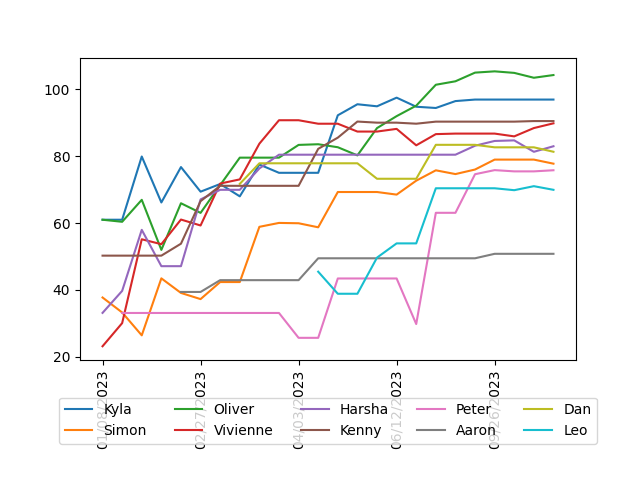
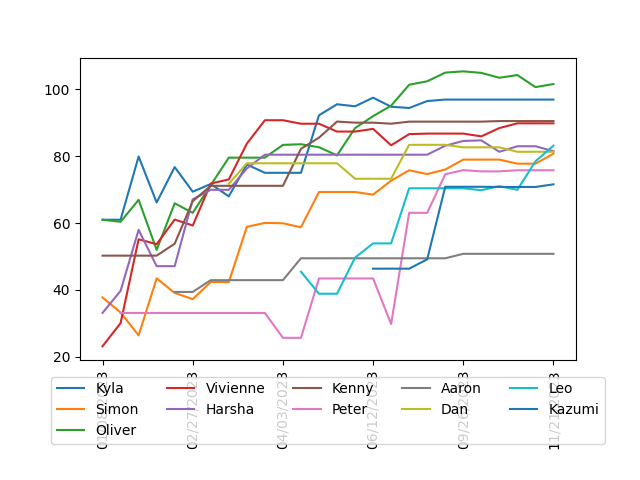
update rankings

diff --git a/README.md b/README.md
@@ -5,23 +5,23 @@
 
 | Player | ELO | Wins | Losses | Win % | Best Game |
 | --- | --- | --- | --- | --- | --- |
-| Oliver | 104.21 | 47 | 37 | 56% | Secret Hitler |
+| Oliver | 101.52 | 50 | 40 | 56% | Secret Hitler |
 | Kyla | 96.88 | 37 | 32 | 54% | Cash n Guns |
 | Kenny | 90.46 | 22 | 22 | 50% | Cash n Guns |
-| Vivienne | 89.79 | 34 | 24 | 59% | Secret Hitler |
+| Vivienne | 89.78 | 35 | 25 | 58% | Secret Hitler |
 | Nikiny | 88.92 | 6 | 12 | 33% | Cash n Guns |
-| Harsha | 82.94 | 24 | 25 | 49% | Secret Hitler |
+| Leo | 83.12 | 17 | 20 | 46% | Avalon |
+| Harsha | 81.47 | 24 | 26 | 48% | Secret Hitler |
 | Dan | 81.29 | 8 | 15 | 35% | Masquerade |
+| Simon | 80.73 | 29 | 34 | 46% | Avalon |
 | Annika | 78.73 | 3 | 1 | 75% | Avalon |
-| Simon | 77.73 | 26 | 33 | 44% | Avalon |
-| Sincere | 77.68 | 7 | 7 | 50% | Avalon |
 | Jelita | 77.39 | 6 | 2 | 75% | Secret Hitler |
+| Sincere | 77.13 | 8 | 10 | 44% | Avalon |
 | Peter | 75.77 | 11 | 20 | 35% | Love Letter |
-| Kazumi | 70.78 | 4 | 14 | 22% | Love Letter |
-| Leo | 69.92 | 11 | 20 | 35% | Masquerade |
+| Siri | 71.98 | 1 | 8 | 11% | Love Letter |
+| Kazumi | 71.56 | 6 | 16 | 27% | Love Letter |
 | Karen | 69.00 | 2 | 1 | 67% | Codenames |
 | Justin | 67.16 | 1 | 4 | 20% | Love Letter |
-| Siri | 64.90 | 1 | 7 | 12% | Love Letter |
 | Rob | 63.15 | 3 | 1 | 75% | Codenames |
 | Queenie | 57.72 | 7 | 11 | 39% | Secret Hitler |
 | Calvin | 55.59 | 7 | 10 | 41% | Secret Hitler |
@@ -39,7 +39,9 @@
 | Eunice | 41.96 | 1 | 1 | 50% | Wavelength |
 | Yoyo | 41.68 | 1 | 1 | 50% | Secret Hitler |
 | Ellabelle | 38.67 | 1 | 7 | 12% | Avalon |
+| Angela | 36.90 | 1 | 4 | 20% | Incan Gold |
 | Jan | 34.21 | 2 | 4 | 33% | Codenames |
+| Julie | 28.24 | 1 | 4 | 20% | Avalon |
 | Agnes | 27.82 | 1 | 4 | 20% | Avalon |
 | Lisa | 27.58 | 0 | 2 | 0% | Secret Hitler |
 | Katrina | 25.63 | 2 | 3 | 40% | Codenames |
@@ -49,6 +51,7 @@
 | Sandy | 21.08 | 0 | 2 | 0% | Codenames |
 | Vivian | 18.94 | 0 | 2 | 0% | Secret Hitler |
 | Louise | 15.50 | 0 | 5 | 0% | Incan Gold |
+| Bryan | 15.30 | 0 | 4 | 0% | Incan Gold |
 | Shirley | 8.62 | 0 | 4 | 0% | Wavelength |
 
 ### Rankings over Time
@@ -104,29 +107,30 @@
 
 | Player | ELO | Wins | Losses | Win % |
 | --- | --- | --- | --- | --- |
+| Vivienne | 77.34  | 9 | 4 | 69% |
 | Kyla | 74.24  | 10 | 5 | 67% |
-| Vivienne | 73.18  | 8 | 4 | 67% |
-| Oliver | 58.80  | 9 | 7 | 56% |
+| Oliver | 67.40  | 11 | 7 | 61% |
 | Harsha | 54.56  | 6 | 5 | 55% |
+| Leo | 53.11  | 5 | 3 | 62% |
 | Kenny | 51.11  | 5 | 4 | 56% |
 | Diana | 50.80  | 1 | 0 | 100% |
 | Karen | 50.80  | 1 | 0 | 100% |
 | Fred | 48.43  | 1 | 0 | 100% |
 | Rob | 48.41  | 1 | 0 | 100% |
 | Frances | 48.41  | 1 | 0 | 100% |
+| Kazumi | 48.13  | 3 | 2 | 60% |
 | Annika | 46.91  | 1 | 0 | 100% |
 | Katrina | 46.85  | 2 | 0 | 100% |
 | Dari | 46.30  | 1 | 0 | 100% |
-| Kazumi | 42.28  | 2 | 2 | 50% |
-| Leo | 39.64  | 3 | 3 | 50% |
+| Simon | 42.43  | 6 | 9 | 40% |
 | Justin | 39.30  | 1 | 1 | 50% |
-| Simon | 38.73  | 5 | 8 | 38% |
 | Dorine | 38.66  | 1 | 1 | 50% |
 | Jan | 38.44  | 1 | 2 | 33% |
 | Jelita | 38.44  | 1 | 2 | 33% |
 | Nikiny | 34.91  | 2 | 3 | 40% |
 | Kai | 33.68  | 1 | 2 | 33% |
 | Aaron | 32.97  | 1 | 3 | 25% |
+| Sincere | 28.72  | 0 | 1 | 0% |
 | Queenie | 28.68  | 1 | 3 | 25% |
 | Ellabelle | 27.70  | 0 | 1 | 0% |
 | Siri | 26.63  | 0 | 1 | 0% |
@@ -137,6 +141,9 @@
 | Agnes | 25.05  | 0 | 2 | 0% |
 | Shirley | 23.77  | 0 | 1 | 0% |
 | Dan | 23.44  | 0 | 2 | 0% |
+| Julie | 22.11  | 0 | 2 | 0% |
+| Bryan | 22.11  | 0 | 2 | 0% |
+| Angela | 22.11  | 0 | 2 | 0% |
 | Peter | 20.16  | 1 | 3 | 25% |
 | Calvin | 19.73  | 2 | 5 | 29% |
 
@@ -189,41 +196,44 @@
 | Player | ELO | Wins | Losses | Win % |
 | --- | --- | --- | --- | --- |
 | Kyla | 64.38  | 4 | 4 | 50% |
-| Leo | 54.92  | 1 | 3 | 25% |
-| Oliver | 53.05  | 1 | 10 | 9% |
+| Leo | 63.01  | 2 | 3 | 40% |
+| Oliver | 54.95  | 1 | 11 | 8% |
 | Vivienne | 48.37  | 3 | 2 | 60% |
 | Peter | 48.19  | 4 | 3 | 57% |
 | Harsha | 46.77  | 1 | 6 | 14% |
 | Kenny | 45.06  | 1 | 4 | 20% |
 | Aaron | 40.78  | 2 | 4 | 33% |
 | Kai | 40.48  | 1 | 2 | 33% |
+| Angela | 39.09  | 0 | 1 | 0% |
 | Annika | 39.06  | 0 | 1 | 0% |
 | Abhi | 38.64  | 1 | 1 | 50% |
 | Calvin | 35.37  | 0 | 1 | 0% |
 | Justin | 34.49  | 0 | 1 | 0% |
 | Joyce | 34.12  | 0 | 2 | 0% |
-| Sincere | 33.46  | 0 | 4 | 0% |
+| Sincere | 34.03  | 0 | 5 | 0% |
 | Louise | 33.38  | 0 | 1 | 0% |
 | Dan | 32.44  | 0 | 3 | 0% |
 | Siri | 32.16  | 0 | 1 | 0% |
+| Bryan | 31.36  | 0 | 1 | 0% |
 | Agnes | 31.27  | 0 | 1 | 0% |
 | Nikiny | 30.40  | 0 | 7 | 0% |
 | Jason | 28.73  | 0 | 1 | 0% |
+| Julie | 28.28  | 0 | 1 | 0% |
 | Queenie | 26.65  | 0 | 2 | 0% |
 | Dorine | 26.38  | 0 | 3 | 0% |
 | Katrina | 24.83  | 0 | 1 | 0% |
 | Diana | 21.98  | 0 | 3 | 0% |
-| Kazumi | 18.88  | 0 | 3 | 0% |
 | Simon | 17.96  | 2 | 8 | 20% |
+| Kazumi | 14.76  | 0 | 4 | 0% |
 
 ### Avalon
 
 | Player | ELO | Wins | Losses | Win % |
 | --- | --- | --- | --- | --- |
-| Oliver | 94.94  | 12 | 2 | 86% |
-| Simon | 74.08  | 7 | 1 | 88% |
-| Sincere | 57.46  | 4 | 2 | 67% |
-| Leo | 56.12  | 4 | 2 | 67% |
+| Oliver | 95.36  | 13 | 3 | 81% |
+| Simon | 84.04  | 9 | 1 | 90% |
+| Leo | 67.17  | 6 | 2 | 75% |
+| Sincere | 60.87  | 5 | 3 | 62% |
 | Dan | 51.95  | 5 | 2 | 71% |
 | Kenny | 50.46  | 5 | 3 | 62% |
 | Kyla | 48.79  | 6 | 4 | 60% |
@@ -232,19 +242,22 @@
 | Aaron | 46.49  | 2 | 2 | 50% |
 | Ellabelle | 44.78  | 1 | 0 | 100% |
 | Jelita | 43.16  | 1 | 0 | 100% |
-| Harsha | 42.71  | 2 | 2 | 50% |
+| Harsha | 38.54  | 2 | 3 | 40% |
+| Julie | 38.20  | 1 | 1 | 50% |
 | Jason | 36.60  | 1 | 1 | 50% |
 | Agnes | 35.62  | 1 | 1 | 50% |
+| Angela | 34.97  | 1 | 1 | 50% |
 | Abhi | 34.05  | 1 | 2 | 33% |
 | Calvin | 33.19  | 1 | 2 | 33% |
 | Jan | 32.21  | 1 | 1 | 50% |
 | Justin | 31.30  | 0 | 1 | 0% |
-| Vivienne | 31.21  | 3 | 5 | 38% |
+| Vivienne | 28.74  | 3 | 6 | 33% |
 | Peter | 28.65  | 1 | 5 | 17% |
+| Bryan | 28.46  | 0 | 1 | 0% |
 | Katrina | 22.86  | 0 | 2 | 0% |
 | Louise | 22.86  | 0 | 2 | 0% |
 | Joyce | 20.52  | 0 | 2 | 0% |
-| Kazumi | 14.92  | 0 | 5 | 0% |
+| Kazumi | 15.91  | 1 | 6 | 14% |
 
 ### Coup
 
@@ -323,3 +336,11 @@
 | Justin | 53.03  | 0 | 1 | 0% |
 | Siri | 53.03  | 0 | 1 | 0% |
 | Harsha | 53.03  | 0 | 1 | 0% |
+
+### Clank
+
+| Player | ELO | Wins | Losses | Win % |
+| --- | --- | --- | --- | --- |
+| Leo | 65.24  | 1 | 0 | 100% |
+| Siri | 42.44  | 0 | 1 | 0% |
+| Oliver | 42.44  | 0 | 1 | 0% |
